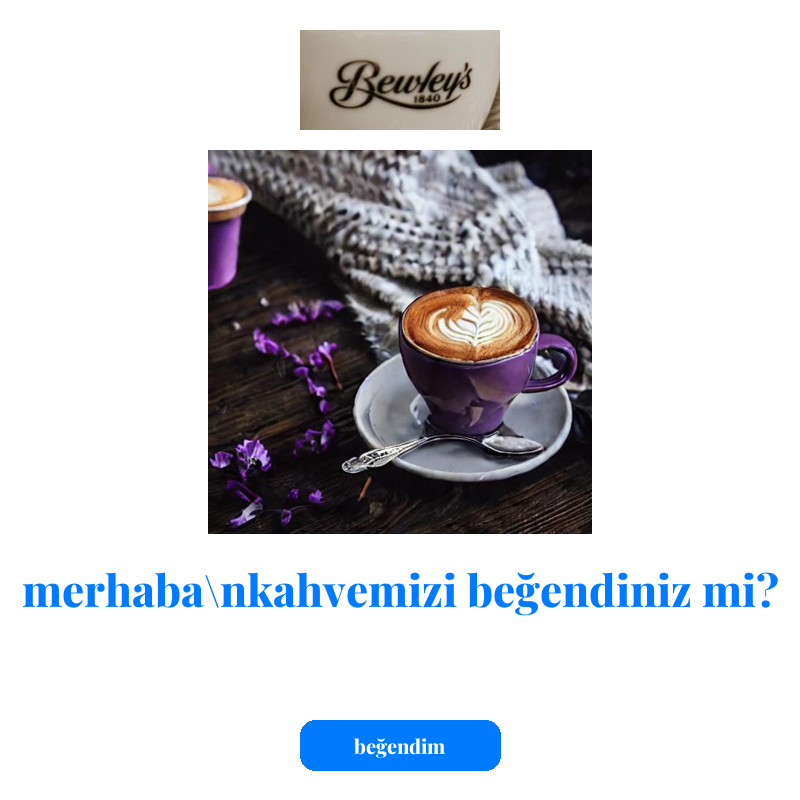
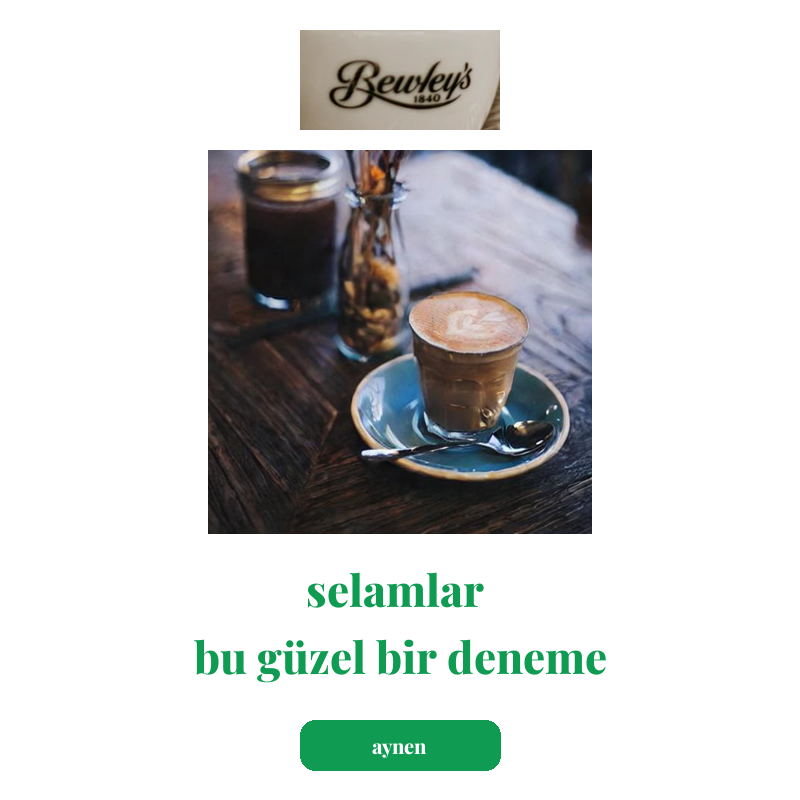
sunucudan yerele dosya ve promt gönderme sunucuda çalışan kaynak kod benim bilgisayarımdaki stable diffusion kodlarını kullanacak şekilde güncelledim.

Changed region(s): [[0.25, 0.1875, 0.75, 0.6875], [0.0312, 0.7188, 0.9688, 0.875], [0.375, 0.875, 0.625, 0.9688]]

diff --git a/post_islemi_deneme.py b/post_islemi_deneme.py
@@ -1,0 +1,49 @@
+import os
+
+import requests
+import base64
+from PIL import Image
+from io import BytesIO
+
+"""
+BURASI SUNUCA ÇALIŞACAK
+RESMİ VE PROMTU ALIP YEREL BİLGİSAYARA GÖNDERECEK VE İŞLENMİŞ RESMİ ALACAK.
+SADECE STABLE DİFFUSİON İLE RESİM ÜRETME İŞİ YERELDE OLACAK, GERİSİ SUNUCUDA.
+isteği sunucu yapar. yerel bilgisayar karşılar.
+sunucu yerel bilgisayara post işlemi yapar. promt + image --->>> return generated_image
+"""
+
+
+class UzakBaglanti:
+    def __init__(self, prompt, image, server_url):
+        # uzak bilgisayara da parametre göndermeme durumu olmaz ya.
+        self.server_url = server_url  # Uzak bilgisayarın IP adresi ve portunu güncelle
+
+        image.save(os.path.join("uploads", image.filename))
+        # kodlarım dosya yolu ile çalıştığı için
+        # gelen resimleri önce kaydettim sonra yollarını aldım
+
+        self.file_path = os.path.join("uploads", image.filename)
+        self.prompt = prompt
+
+    def postIt(self):
+        with open(self.file_path, "rb") as image_file:
+            data = base64.b64encode(image_file.read())
+
+        # im = Image.open(BytesIO(base64.b64decode(data)))
+        # im değişkeni kaydedilebilir.
+        # im.save('image1.png', 'PNG')
+
+        response = requests.post(self.server_url, data={'image': data,
+                                                        'prompt': self.prompt})
+
+        # Sunucu tarafından dönen Base64 kodlanmış işlenmiş resmi çöz
+        processed_image_data = base64.b64decode(response.json()['processed_image'])
+
+        # Çözülen veriyi resim dosyasına dönüştür
+        processed_image = Image.open(BytesIO(processed_image_data))
+
+        # İşlenmiş resmi göster veya başka bir şekilde işle
+        # processed_image.show()
+
+        return processed_image

diff --git a/main.py b/main.py
@@ -1,4 +1,5 @@
 import img2img, Template
+from post_islemi_deneme import UzakBaglanti
 
 
 class Sunum:
@@ -8,8 +9,14 @@ class Sunum:
 
     def CreateImage(self, prompt="latte in red cup",
                     image='../AdCreative.ai-ML-Engineer-Case-Study/uploads/coffee-5495609_1280.jpg'):
+        # bu noktada uzak bilgisayarla bağlantı kurma işlemini gerçekleştirsin.
+        generate_image = (UzakBaglanti(prompt=prompt,
+                                      image=image,
+                                      server_url="http://192.168.84.106:8000/process_image")
+                          .postIt())
+
         # üretilmiş resmi geri döndürür.
-        return self.model.generate_image(prompt=prompt, image_path=image)
+        return generate_image
 
     def CreateTemplate(self, generated_image='../AdCreative.ai-ML-Engineer-Case-Study/uploads/coffee-5495609_1280.jpg',
                        logo_path="C:/Users/ksyus/Documents/Yazılımsal Projeler/adCreative.ai iş başvuru case "
